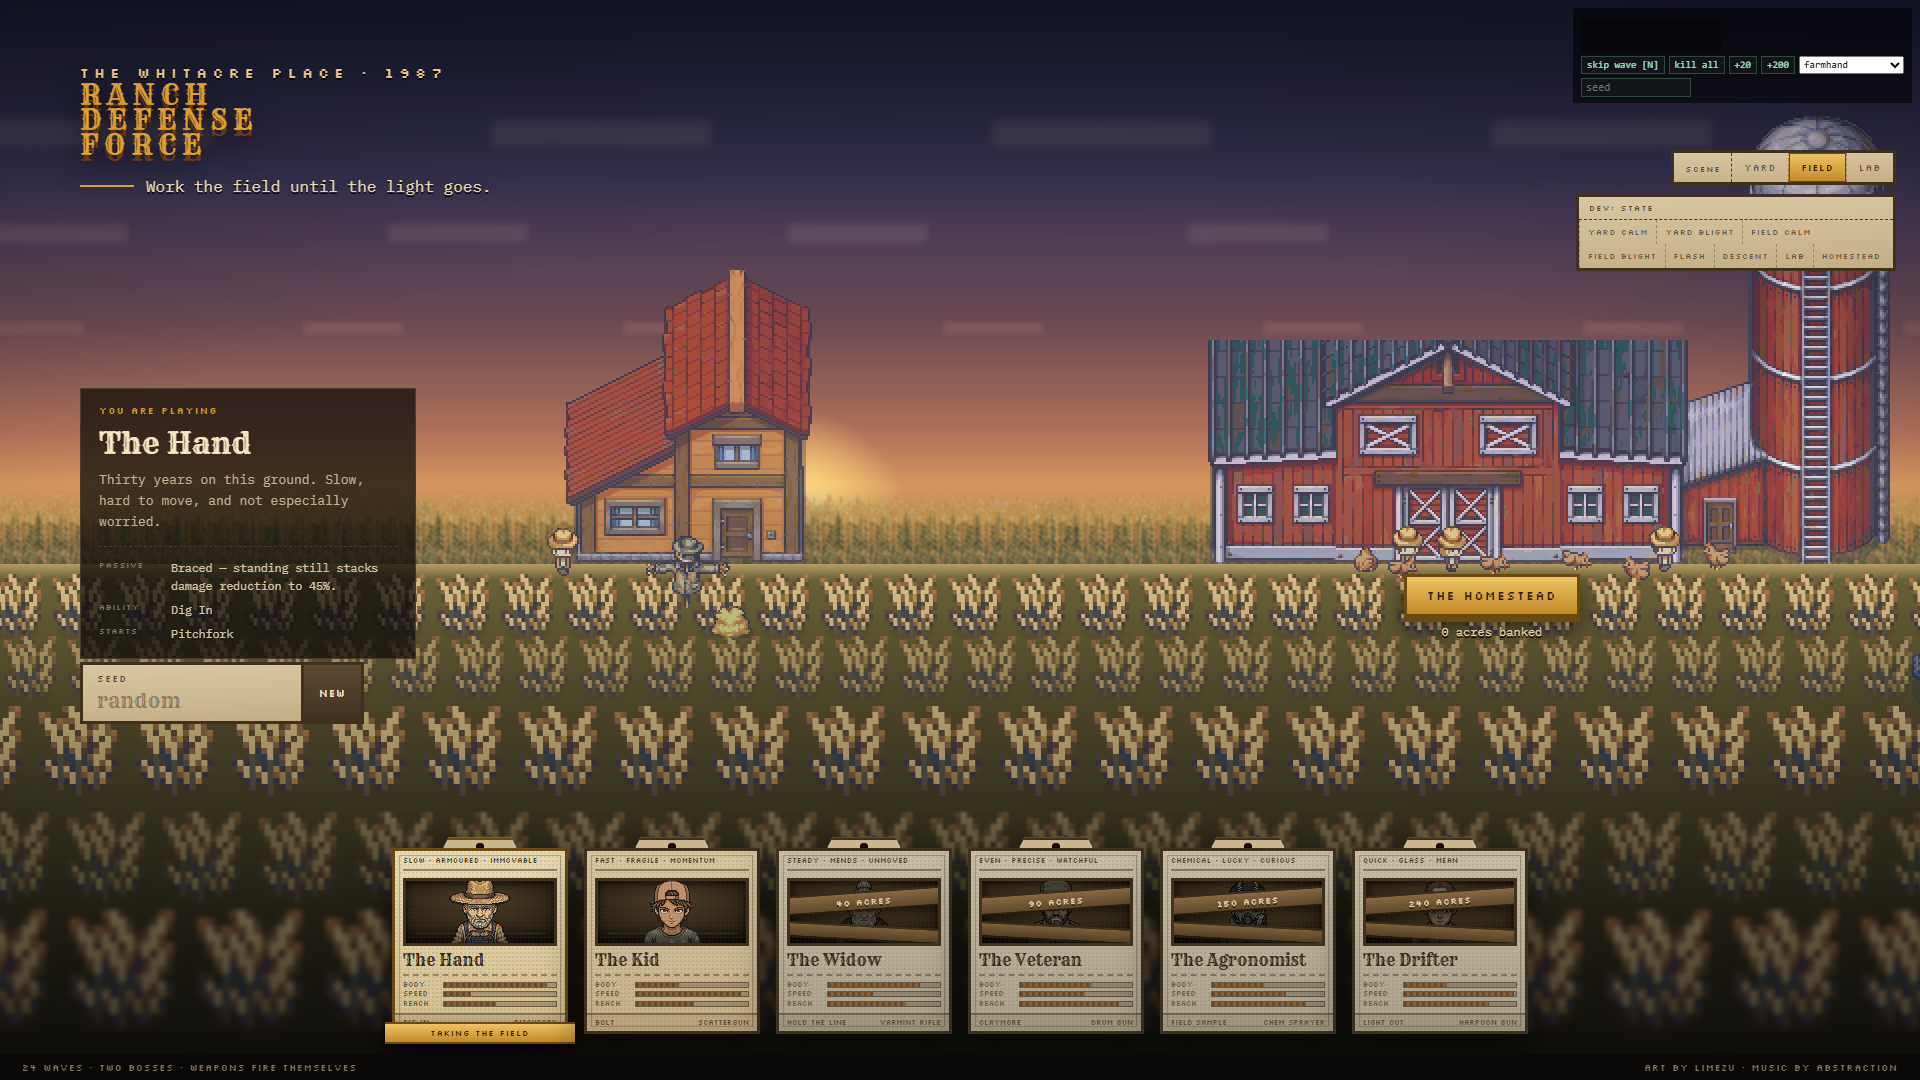
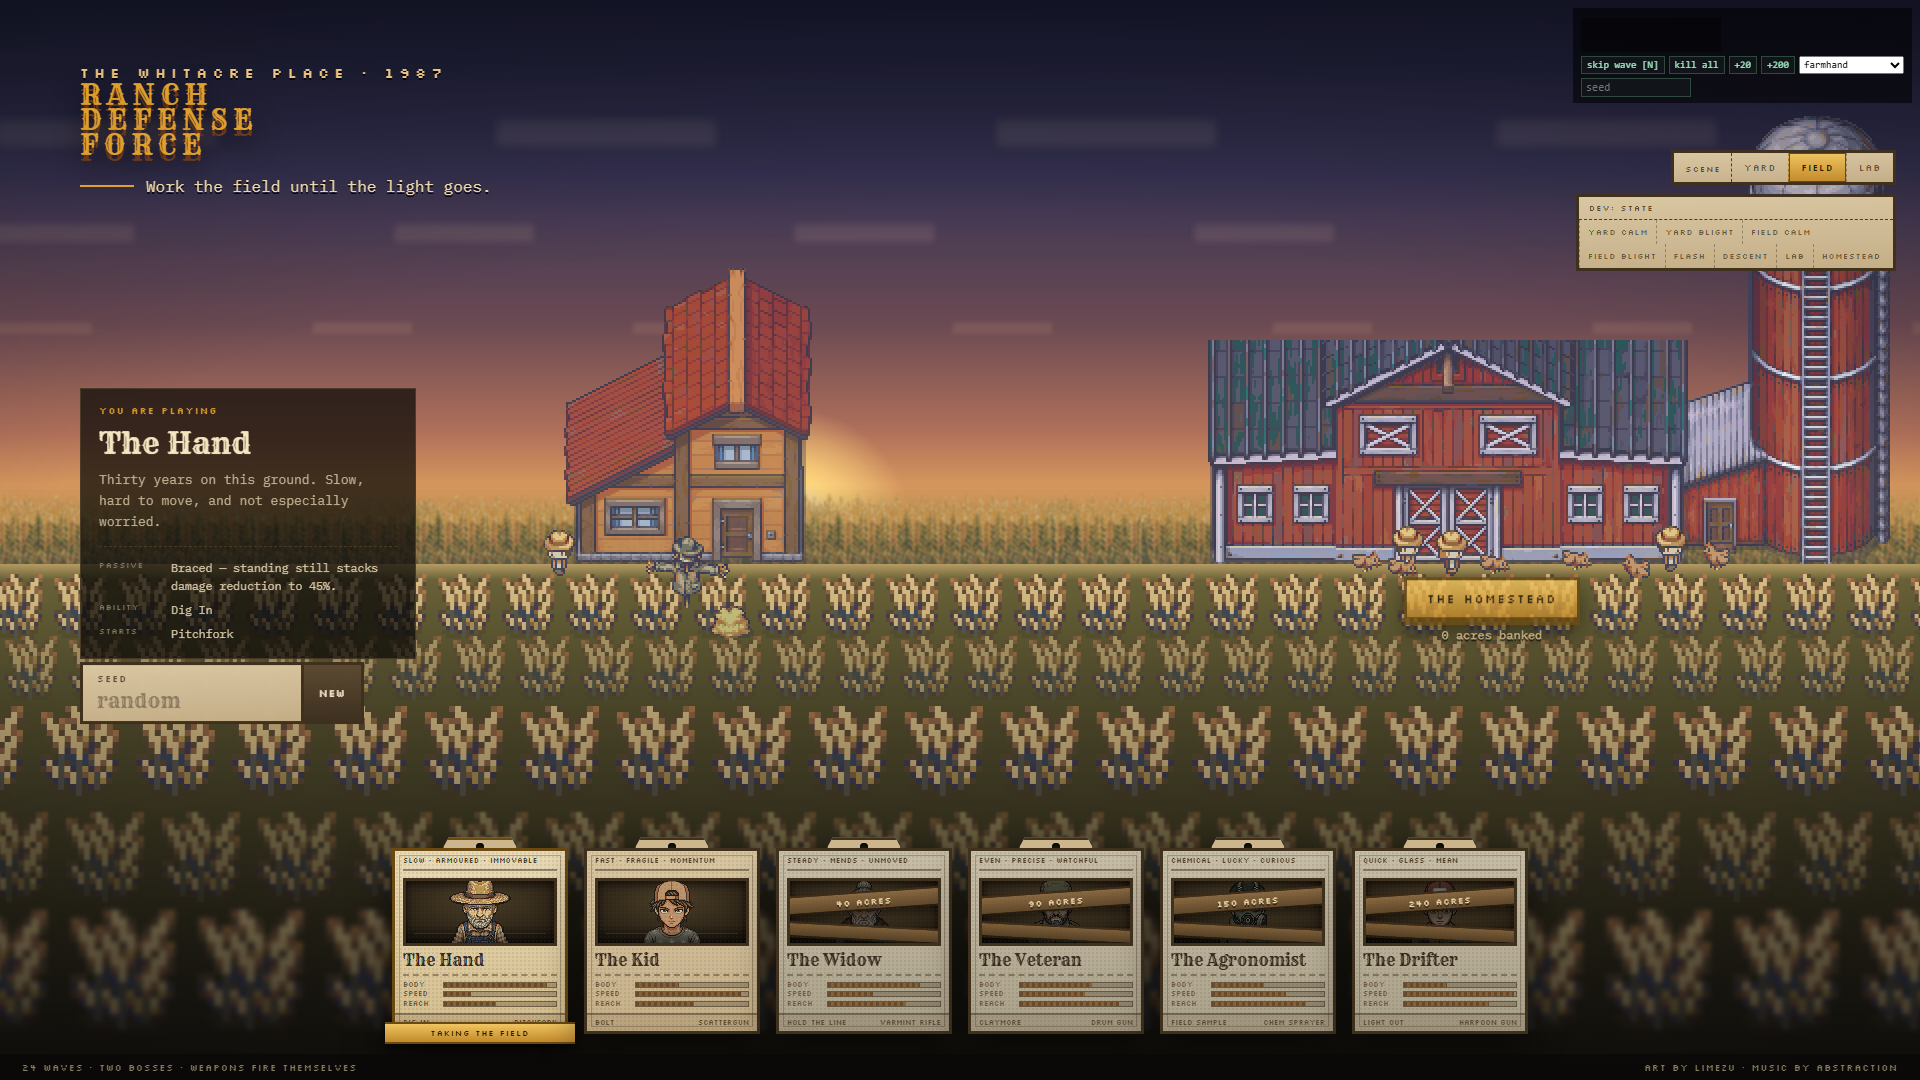
The yard's road recovers its trapezoid, and three yard fixtures grow into their neighbours
Two owner-reported visual bugs from the live site. The lower-right "weird
square that's a different shade" was the track to the barn doors losing its
clip-path in the port from Yard Grounding Fix.dc.html -- drawn as a flat
rectangle instead of the perspective trapezoid Design's artboard specifies,
restored verbatim.

The doghouse, the well and the coop were sized off ranch.*'s literal
canvas/content maths (correct against ASSET_CATALOG.md's "a grown person is
64px" reference) and read as undersized next to the animals beside them,
which are deliberately drawn above life scale. Heights bumped -- well to
"a person and a half" (44 -> 96px content), coop 90 -> 100px content (capped
so it stays clear of the barn's own content box), doghouse 44 -> 58px --
with each y recomputed so the content's ground contact stays on the same
line. tools/bbox-check.ts is the instrument that measured the exact
content-to-canvas ratios rather than guessing them.

npm run typecheck clean, npm run blight resolves every mapping, 241/241 tests.

Changed region(s): [[0.0, 0.4889, 1.0, 0.7028], [0.0, 0.5194, 0.0312, 0.6111]]

diff --git a/src/ui/scene.ts b/src/ui/scene.ts
@@ -678,8 +678,18 @@ function yard(): (HTMLElement | null)[] {
     'background:linear-gradient(180deg,rgba(124,114,88,0) 0%,rgba(102,96,74,0.3) 46%,' +
     'rgba(74,70,56,0.04) 100%)',
   ))
+  /*
+     The track to the barn doors. `docs/mockups/Yard Grounding Fix.dc.html`
+     draws this same box with a trapezoid `clip-path` narrowing it to a strip
+     as it recedes toward the barn -- a perspective road, not a ground patch.
+     The port dropped the clip-path, so the box painted as a hard-edged
+     rectangle of a different shade sitting behind the coop, the hens and the
+     ponies: "a weird square that's a different shade," reported off the live
+     site. Restoring the clip-path is the whole fix.
+  */
   push(box(
     'left:900px;top:700px;width:760px;height:380px;opacity:0.7;' +
+    'clip-path:polygon(46% 0,55% 0,100% 100%,0 100%);' +
     'background:linear-gradient(180deg,#6a5a3c 0%,#7b6945 36%,#6b5a3a 100%)',
   ))
 
@@ -688,9 +698,24 @@ function yard(): (HTMLElement | null)[] {
   // -- the yard furniture
   push(plate('ranch.roundBale', 605, 657, 107, 'filter:brightness(0.9) saturate(0.94);'))
   push(plate('ranch.squareBales', 729, 743, 21, 'filter:brightness(0.9);'))
-  push(plate('ranch.doghouse', 825, 693, 54, 'filter:brightness(0.92);'))
-  push(plate('ranch.wellStone', 688, 734, 69, 'filter:brightness(0.92) saturate(0.92);'))
-  push(plate('ranch.coop', 958, 626, 171, 'filter:brightness(0.88) saturate(0.88);'))
+  /*
+     The doghouse, the well and the coop were all sized off `ranch.*`'s literal
+     canvas-and-content maths -- correct against the "a grown person is 64px"
+     reference in ASSET_CATALOG.md, and undersized against the animals
+     standing next to them, which are DELIBERATELY drawn above life scale (see
+     session 19). A hen nearly as tall as the coop door and a cat the height of
+     the well are the result. Heights only, feet kept on the same ground line
+     (the y below is recomputed from each sprite's own content-to-canvas
+     ratio, measured with `tools/bbox-check.ts`, so the content's bottom edge
+     -- not the padded canvas edge -- stays put): doghouse 44->58px content,
+     well 44->96px ("a person and a half"), coop 90->100px, its box height
+     held to 190 rather than pushed further so its content stays clear of the
+     barn's own content box instead of lapping into its wall
+     (`tools/bbox-check.ts` again).
+  */
+  push(plate('ranch.doghouse', 825, 676, 73, 'filter:brightness(0.92);'))
+  push(plate('ranch.wellStone', 688, 701, 104, 'filter:brightness(0.92) saturate(0.92);'))
+  push(plate('ranch.coop', 958, 613, 190, 'filter:brightness(0.88) saturate(0.88);'))
   push(plate('ranch.nestBox', 1085, 722, 32, 'filter:brightness(0.9);'))
   push(plate('ranch.feedPan', 889, 749, 53, 'filter:brightness(0.94);'))
   push(plate('ranch.eggClutch', 1105, 730, 28))

diff --git a/tools/bbox-check.ts b/tools/bbox-check.ts
@@ -1,0 +1,30 @@
+import { readFileSync } from 'node:fs'
+import { decodePng } from './png.ts'
+
+const atlas = JSON.parse(readFileSync('public/atlas.json', 'utf8'))
+const names = process.argv.slice(2).filter((v) => v !== '--')
+for (const name of names) {
+  const f = atlas.frames[name]
+  if (!f) { console.log(name, 'MISSING'); continue }
+  const pageFile = `public/atlas-${f.page}.png`
+  const img = decodePng(readFileSync(pageFile))
+  let minX = f.w; let minY = f.h; let maxX = -1; let maxY = -1
+  for (let y = 0; y < f.h; y++) {
+    for (let x = 0; x < f.w; x++) {
+      const sx = f.x + x; const sy = f.y + y
+      const idx = (sy * img.width + sx) * 4
+      const a = img.data[idx + 3]
+      if (a > 10) {
+        if (x < minX) minX = x
+        if (x > maxX) maxX = x
+        if (y < minY) minY = y
+        if (y > maxY) maxY = y
+      }
+    }
+  }
+  console.log(
+    name, 'canvas', `${f.w}x${f.h}`, 'contentBBox', `x:${minX}-${maxX} y:${minY}-${maxY}`,
+    'contentW', maxX - minX + 1, 'contentH', maxY - minY + 1,
+    'bottomGap', f.h - 1 - maxY, 'topGap', minY,
+  )
+}
